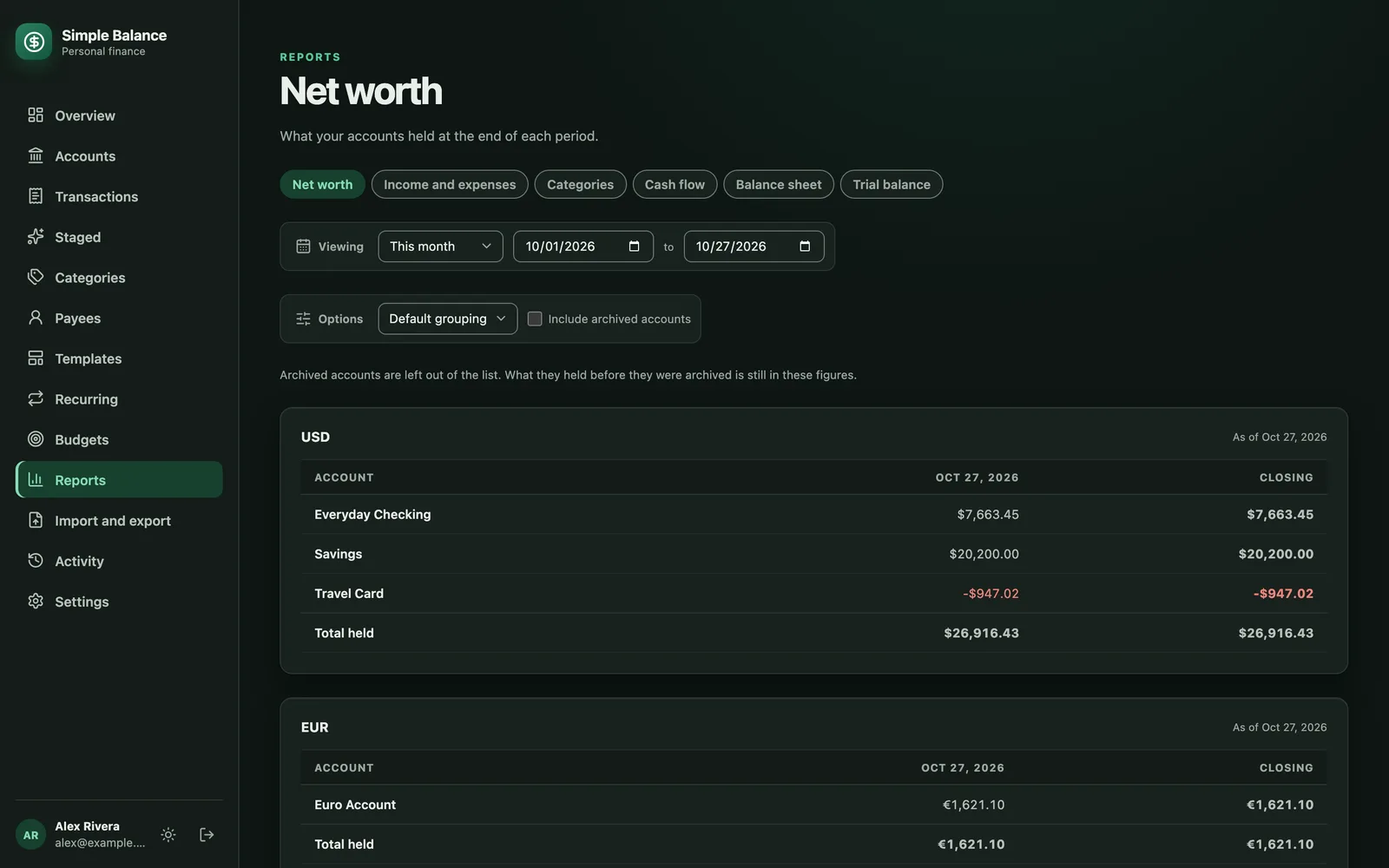
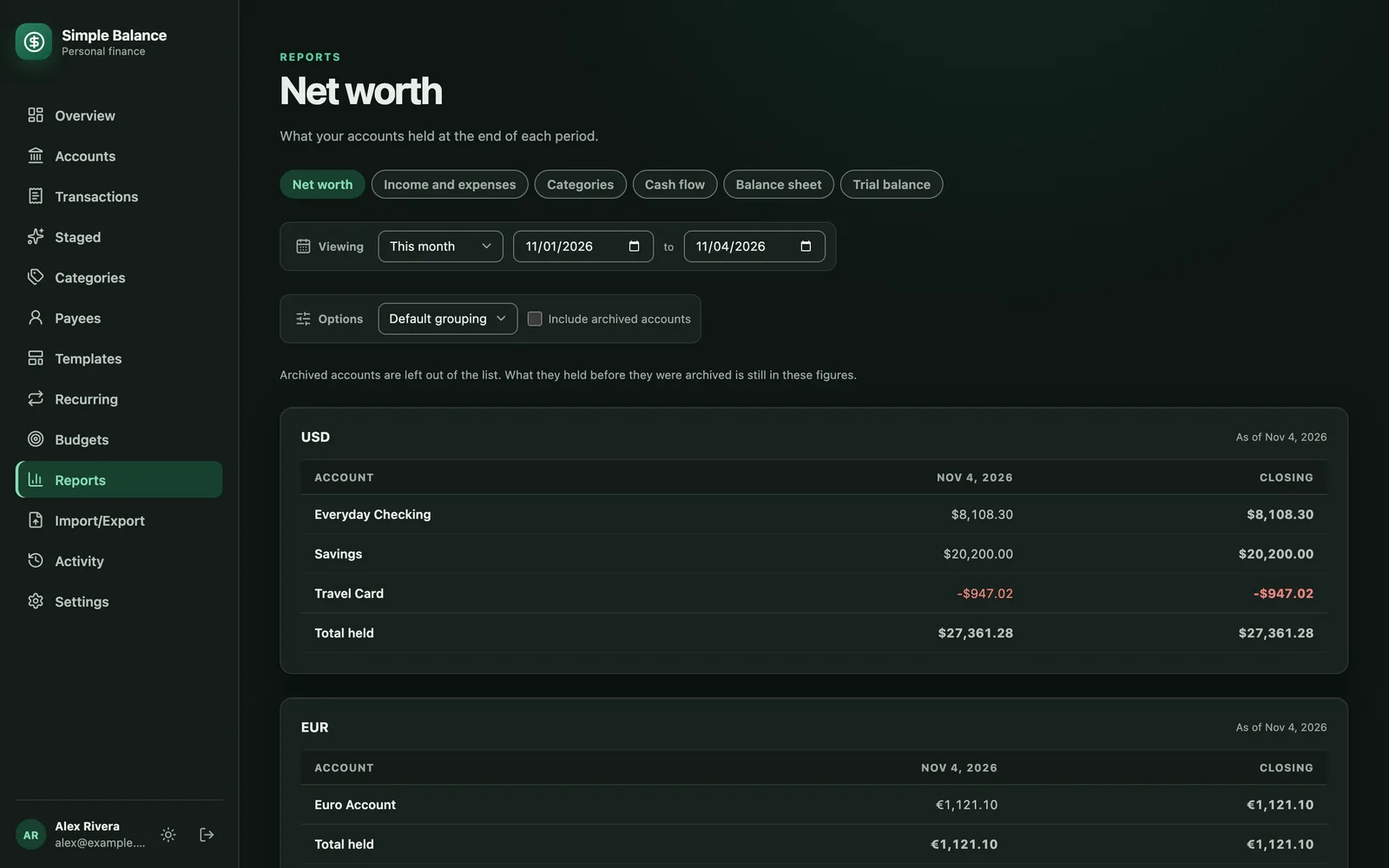
Send readers to Import/Export, and fold this branch into 0.2.2
This branch ships in 0.2.2, which is cut on main and not yet published, so
its changelog entries move out of Unreleased: the demo ledger leads 0.2.2's
Changed section, and the menu rename becomes a correction to the sentence
that introduced the page rather than an entry of its own. The 0.2.2 upgrade
note said the sidebar reads "Import and export", in its summary and in its
checks, and now says Import/Export.

The rename itself survived review because only the sidebar was renamed. Five
how-to steps, two sentences of the user guide and the upgrade note's check
told a person to open "Import and export", which the sidebar no longer has,
and web.md still said the label was words rather than "Import/Export" for
the sentence-case rule. That rule now names Import/Export as its one
exception; the page keeps its heading. Two tool descriptions and one input
description (export_transactions_csv, export_ledger_file) told an agent to
send the person to the old label too, so each tier's tools/list is 12
characters shorter, re-pinned in mcp.md and in the upgrade note's
0.2.1-against-0.2.2 table.

The product kit is rebuilt from the demo ledger with billing on: 28 shots of
14 screens, plan tab included, every one carrying the new label. That run
also exercised the path the skill describes and nothing had shown, the free
plan refusing the ledger's four accounts until a subscription row exists.
LEDGER_FILE_UPGRADE_AFTER_DASH is used only in its own module and is no
[…]

diff --git a/src/server/mcp.ts b/src/server/mcp.ts
@@ -1137,7 +1137,7 @@ export function createMcpServer(actor: Actor, scopes: Set<string>) {
       {
         title: "Export transactions as CSV",
         description:
-          "Export filtered committed transactions in the round-trip CSV format. One call exports at most 100 transactions and 60,000 characters, so the file stays small enough to read in one reply; more is refused with the limit rather than cut short, so filter with start and end and export a range at a time. The person's download from Import and export in the browser carries up to 100,000. A deleted entry is never exported, whatever filter is sent: it is void, its postings net to zero, and the file has no column to say so, so reading it back would raise the voided amount from the dead.",
+          "Export filtered committed transactions in the round-trip CSV format. One call exports at most 100 transactions and 60,000 characters, so the file stays small enough to read in one reply; more is refused with the limit rather than cut short, so filter with start and end and export a range at a time. The person's download from Import/Export in the browser carries up to 100,000. A deleted entry is never exported, whatever filter is sent: it is void, its postings net to zero, and the file has no column to say so, so reading it back would raise the voided amount from the dead.",
         // An export is the whole filtered set, so it advertises no window, and
         // no includeDeleted either: the service fixes that to false and an
         // advertised filter that changes nothing is worse than an absent one.
@@ -1167,7 +1167,7 @@ export function createMcpServer(actor: Actor, scopes: Set<string>) {
       {
         title: "Export a Simple Balance file",
         description:
-          "Export the ledger, or some of its accounts, as a Simple Balance file: one JSON document (simple-balance-ledger-1) holding accounts, categories and groups, entries with their splits, templates, recurring transactions, budgets, staged rows and settings, every reference by name, so it can move to another copy of Simple Balance, where `preview_ledger_file` reads it and `add_ledger_file` adds it, or `move_ledger_file` moves it into a ledger that holds nothing else yet. One call carries at most 10,000 rows — entries, staged rows, budget amounts and history events together — at most 4 MiB of notes, split legs, staged rows and activity history among them, and at most one import part's 16 MiB in all, so export a larger ledger, or a long activity history, a date range at a time. Staged rows and budget amounts have no date to narrow them by, so a queue or a set of budget amounts over that cannot leave through this tool; the person's download from Import and export in the browser carries up to 100,000 rows. To move a larger ledger that way, export consecutive ranges and move them oldest first into the same ledger, using the accounts the earlier ranges brought when movePlan asks; the last range's balance check says whether every earlier one is in, and only the latest range should carry recurrences, because one created by an earlier range can propose a row into Staged before the next lands and end the move. The file comes back as text; pass it on unchanged.",
+          "Export the ledger, or some of its accounts, as a Simple Balance file: one JSON document (simple-balance-ledger-1) holding accounts, categories and groups, entries with their splits, templates, recurring transactions, budgets, staged rows and settings, every reference by name, so it can move to another copy of Simple Balance, where `preview_ledger_file` reads it and `add_ledger_file` adds it, or `move_ledger_file` moves it into a ledger that holds nothing else yet. One call carries at most 10,000 rows — entries, staged rows, budget amounts and history events together — at most 4 MiB of notes, split legs, staged rows and activity history among them, and at most one import part's 16 MiB in all, so export a larger ledger, or a long activity history, a date range at a time. Staged rows and budget amounts have no date to narrow them by, so a queue or a set of budget amounts over that cannot leave through this tool; the person's download from Import/Export in the browser carries up to 100,000 rows. To move a larger ledger that way, export consecutive ranges and move them oldest first into the same ledger, using the accounts the earlier ranges brought when movePlan asks; the last range's balance check says whether every earlier one is in, and only the latest range should carry recurrences, because one created by an earlier range can propose a row into Staged before the next lands and end the move. The file comes back as text; pass it on unchanged.",
         // The page's own selection, as is: the route parses the same schema out
         // of its query string, so an agent can ask for exactly what the page
         // can and nothing it cannot.

diff --git a/src/shared/ledger-file.ts b/src/shared/ledger-file.ts
@@ -1576,7 +1576,7 @@ export const ledgerFileSelectionSchema = z
       .array(z.enum(ledgerFileKinds))
       .min(1, "Choose at least one kind of record to export")
       .describe(
-        "Which kinds of record the file carries whole: preferences (the regional defaults and appearance from Settings: timezone, default currency and theme), categories (with their groups), accounts, entries (committed transactions), deletedEntries (deleted entries, which net to zero; needs entries), templates (with their reminders), recurrences, budgets (plans and per-period amounts), staged (rows waiting in Staged transactions) and history (the activity log, which no import reads back). A record of a kind left out still travels as a reference, by name, wherever something in the file names it. The browser's Export section, on Import and export, starts with every kind but history.",
+        "Which kinds of record the file carries whole: preferences (the regional defaults and appearance from Settings: timezone, default currency and theme), categories (with their groups), accounts, entries (committed transactions), deletedEntries (deleted entries, which net to zero; needs entries), templates (with their reminders), recurrences, budgets (plans and per-period amounts), staged (rows waiting in Staged transactions) and history (the activity log, which no import reads back). A record of a kind left out still travels as a reference, by name, wherever something in the file names it. The browser's Export section, on Import/Export, starts with every kind but history.",
       ),
     accountIds: z
       .array(uuid())

diff --git a/src/shared/ledger-file-import.ts b/src/shared/ledger-file-import.ts
@@ -476,7 +476,7 @@ export function ledgerFileMoveStagedBlocked(n: number): string {
  * off everything the ledger-file tools return. Constants, so the browser's
  * sentence and the strip cannot drift apart.
  */
-export const LEDGER_FILE_UPGRADE_AFTER_DASH = " — or upgrade under Settings.";
+const LEDGER_FILE_UPGRADE_AFTER_DASH = " — or upgrade under Settings.";
 export const LEDGER_FILE_UPGRADE_AFTER_COMMA = ", or upgrade under Settings.";
 
 /**

diff --git a/CHANGELOG.md b/CHANGELOG.md
@@ -2,29 +2,6 @@
 
 Notable changes, newest first.
 
-## Unreleased
-
-### Changed
-
-**The menu calls Import and export Import/Export.** Shorter in a sidebar where
-every other item is one or two words; the page and its address are unchanged.
-
-**One demo ledger, saved as a Simple Balance file, is what everything synthetic
-is made of.** The product kit used to build its ledger from a description of
-one, posting every account, entry, budget and template through the API on each
-run, and design reviews and smoke tests made up data of their own.
-`scripts/demo-ledger/demo-ledger.json` is now an export from this application,
-committed, and `scripts/demo-ledger/load.mjs` — or the kit's build, which does
-the same thing — moves it into a new sign-up's books, with its dates brought
-forward by whole months so its last month is the current one. It holds what the
-old seed did, plus a category group, a split, a conversion between its two
-currencies and a deleted entry. `save.mjs` writes a changed copy back with only
-the change in the diff. `tests/integration/demo-ledger.integration.test.ts`
-moves it into a database, so a change to the format or to a move's rules that
-the file no longer meets fails there instead of halfway through a screenshot
-run. The kit's `seed.json` and its per-entry keys are gone with the seeding they
-served.
-
 ## 0.2.2 - 2026-11-03
 
 ### Added
@@ -48,22 +25,23 @@ whoever started the connection.
 file.** A CSV carries transactions and nothing else, so moving between our cloud
 app and a copy you run yourself meant rebuilding every account, budget, template
 and recurring transaction by hand, and picking the other account of every
-transfer again. The menu's Import CSV is now **Import and export**, at the same
-address, and below the CSV import it makes one JSON file in the
-`simple-balance-ledger-1` format: accounts with their opening balances and the
-day each was archived, categories and groups, every transaction with its splits
-and both sides of every transfer, deleted ones too unless you untick them,
-templates with their reminders, recurring transactions, budgets, rows still
-waiting in Staged transactions, and your regional defaults and theme once you
-have chosen them. Records name each other by name rather than by id, so the file
-means the same thing in another copy, and a kind you leave out still travels by
-name wherever something refers to it, so unticking one breaks nothing. **Some
-accounts** takes up to a hundred of them, with their details alone, all their
-transactions, or a date range, and a transfer between two of them is in the file
-once. A ranged file carries what each account held the day before it starts, and
-a file with transactions gives every account a balance check worked out from its
-postings. The activity history can come along, unticked to begin with, with
-the owner's id taken out of it, and is never read back.
+transfer again. The menu's Import CSV is now **Import/Export**, a page headed
+Import and export at the same address, and below the CSV import it makes one
+JSON file in the `simple-balance-ledger-1` format: accounts with their opening
+balances and the day each was archived, categories and groups, every transaction
+with its splits and both sides of every transfer, deleted ones too unless you
+untick them, templates with their reminders, recurring transactions, budgets,
+rows still waiting in Staged transactions, and your regional defaults and theme
+once you have chosen them. Records name each other by name rather than by id, so
+the file means the same thing in another copy, and a kind you leave out still
+travels by name wherever something refers to it, so unticking one breaks
+nothing. **Some accounts** takes up to a hundred of them, with their details
+alone, all their transactions, or a date range, and a transfer between two of
+them is in the file once. A ranged file carries what each account held the day
+before it starts, and a file with transactions gives every account a balance
+check worked out from its postings. The activity history can come along,
+unticked to begin with, with the owner's id taken out of it, and is never read
+back.
 
 Agents get the same file from `export_ledger_file`, and
 `GET /api/v1/ledger-file` serves it as a download. One download holds up to
@@ -284,6 +262,22 @@ archived accounts counted. The Budget panel counts archived spending either
 way, as the Budgets page always has.
 
 ### Changed
+
+**One demo ledger, saved as a Simple Balance file, is what everything synthetic
+is made of.** The product kit used to build its ledger from a description of
+one, posting every account, entry, budget and template through the API on each
+run, and design reviews and smoke tests made up data of their own.
+`scripts/demo-ledger/demo-ledger.json` is now an export from this application,
+committed, and `scripts/demo-ledger/load.mjs` — or the kit's build, which does
+the same thing — moves it into a new sign-up's books, with its dates brought
+forward by whole months so its last month is the current one. It holds what the
+old seed did, plus a category group, a split, a conversion between its two
+currencies and a deleted entry. `save.mjs` writes a changed copy back with only
+the change in the diff. `tests/integration/demo-ledger.integration.test.ts`
+moves it into a database, so a change to the format or to a move's rules that
+the file no longer meets fails there instead of halfway through a screenshot
+run. The kit's `seed.json` and its per-entry keys are gone with the seeding they
+served.
 
 **Tool text says plainly that Simple Balance records bookkeeping entries and
 moves no money.** `create_transaction`, `archive_account` and

diff --git a/docs/upgrades.md b/docs/upgrades.md
@@ -222,26 +222,26 @@ matching it means a new endpoint at endive and its new `whsec_…` in
 reshaped is the switch from monthly to annual on the spot; try it, and a
 3-D Secure payment, in a sandbox before you rely on either.
 
-**Import CSV is now Import and export, at the same address.** The sidebar
-label and the page's heading changed; the path is still `/import`, so a bookmark
-or a link in somebody's notes still lands there. The CSV import is first on the
-page and behaves exactly as it did, and the CSV export on Transactions, its
-route, its columns and every file it ever wrote are untouched. Below the import
-is a new section, **Import a Simple Balance file**, and after it the new
-export, a Simple Balance file of the whole ledger or of chosen accounts. Adding
-a file creates the accounts, categories, templates, recurring transactions and
-budgets nothing here is like straight away, asks in its preview about every one
-that collides with a record of the same name, and stages the file's
-transactions for review like any import. Moving a file, offered only into a
-ledger where everything came from a Simple Balance file — a new sign-up, a
-fresh install — writes its transactions straight into the books instead,
-deleted ones and the days accounts were archived included, and checks every
-account's balance against the file before the last part commits. A ledger
+**Import CSV is now Import/Export, at the same address.** The sidebar label
+reads Import/Export and the page is headed Import and export; the path is still
+`/import`, so a bookmark or a link in somebody's notes still lands there. The
+CSV import is first on the page and behaves exactly as it did, and the CSV
+export on Transactions, its route, its columns and every file it ever wrote are
+untouched. Below the import is a new section, **Import a Simple Balance file**,
+and after it the new export, a Simple Balance file of the whole ledger or of
+chosen accounts. Adding a file creates the accounts, categories, templates,
+recurring transactions and budgets nothing here is like straight away, asks in
+its preview about every one that collides with a record of the same name, and
+stages the file's transactions for review like any import. Moving a file,
+offered only into a ledger where everything came from a Simple Balance file — a
+new sign-up, a fresh install — writes its transactions straight into the books
+instead, deleted ones and the days accounts were archived included, and checks
+every account's balance against the file before the last part commits. A ledger
 that already holds transactions typed into it, which is every ledger in use
-before this upgrade, is offered adding alone. **Both copies need this
-release**: a 0.2.1 copy has nothing that reads a file, so a ledger moving from
-one — to our cloud app, say — has to upgrade first to make the file, and one
-moving to one has to upgrade first to take it in.
+before this upgrade, is offered adding alone. **Both copies need this release**:
+a 0.2.1 copy has nothing that reads a file, so a ledger moving from one — to our
+cloud app, say — has to upgrade first to make the file, and one moving to one
+has to upgrade first to take it in.
 
 **Four new routes and four new tools.** `GET /api/v1/ledger-file`
 (`ledger:read`) answers with the file as `application/json`, an attachment named
@@ -277,9 +277,9 @@ tool list against 0.2.1's, measured on 2026-11-03:
 
 | Token holds | 0.2.1 | 0.2.2 | Longer by |
 | --- | --- | --- | --- |
-| `ledger:read` | 173,131 | 220,496 | 47,365, 27% |
-| `ledger:stage` | 213,653 | 261,511 | 47,858, 22% |
-| `ledger:write` | 497,153 | 595,032 | 97,879, 20% |
+| `ledger:read` | 173,131 | 220,484 | 47,353, 27% |
+| `ledger:stage` | 213,653 | 261,499 | 47,846, 22% |
+| `ledger:write` | 497,153 | 595,020 | 97,867, 20% |
 
 At about four characters to a token that is some 55,000 tokens for a
 read-only connection and 149,000 for a writing one. A client that loads every
@@ -690,7 +690,7 @@ published value, not a secret, so it has no `_FILE` form.
 Where the challenge is set,
 `curl -sS https://your-host/.well-known/openai-apps-challenge` prints the token
 and nothing else; unset, it answers 404. Signed in,
-**Import and export** shows the CSV import, then **Import a Simple Balance
+**Import/Export** shows the CSV import, then **Import a Simple Balance
 file**, then **Export a Simple Balance file**; **Export file** saves
 `simple-balance-` and today's date as a `.json` file, and choosing that file
 under **Import a Simple Balance file** in the same ledger says everything in it

diff --git a/docs/acceptance.md b/docs/acceptance.md
@@ -42,6 +42,7 @@ things are outstanding and four of them are gates.
 | Metrics, before a backend | The collector's configuration is one the pinned collector accepts in every shape and for both protocols, and it runs nowhere that did not ask for it | CI renders the chart's collector and runs the pinned collector's own `validate` on the result for both protocols, and `tests/collector-config.test.ts` holds the export pipeline to the same text in all three configurations, so the Compose shapes share what was validated; every service it adds carries the `metrics` profile and the chart's is off by default. `tests/helm-collector.test.ts`, `tests/cluster-pulumi-collector.test.ts`, `tests/cloud-init.test.ts`, `tests/single-ingress.test.ts` and `tests/systemd-scripts.test.ts` hold the chart, the programs, the machines, the firewall and the start. End to end it was run once on October 24, 2026 against real compose files with an OTLP and a remote-write receiver standing in for the backend, and once on a kind cluster: every target `up`, the token refused when wrong, and nothing rendered differently with nothing set. Those runs are not in the repository, so they support the row rather than close it |
 | MCP directory listings | The host answers OpenAI's domain check, discovery says every client is public, the first 401 names the scopes, the consent screen names where a code goes and whose ledger it grants, a refresh retires its token, a client once approved is never swept, every tool carries its title in its annotations, no tool text or agent refusal reads as moving money or promoting an upgrade, and no tool reply outgrows the context it lands in | `tests/openai-apps-challenge.test.ts`, `tests/mcp-discovery-scopes.test.ts`, `tests/consent-redirect-destination.test.ts`, `tests/oauth-consent-ui.test.tsx`, `tests/browser/consent-screen.spec.ts`, the lifecycle test in `tests/integration/auth.integration.test.ts` (refresh, replay, a race of two refreshes, revoke and sweep), `tests/integration/connected-apps.integration.test.ts`, `tests/mcp-destructive-annotations.test.ts`, `tests/mcp-money-wording.test.ts`, `tests/integration/ledger-file-add-plan.integration.test.ts` and `tests/integration/mcp-result-bounds.integration.test.ts`, each new check seen failing with what it guards removed. The specification is the Application section of `submissions/prerequisites.md` in the connectors repository |
 | Tenant isolation | Another person's record is a 404 on every route that names one | `tests/integration/tenant-isolation-routes.integration.test.ts` reads every `/api/v1` route with an id in its path out of the router — 33 — and asks each for one person's record as another, and a route added without a probe fails without a database; `tests/integration/tenant-isolation.integration.test.ts` holds the bulk paths, whose ids are in the body |
+| Demo data | Every synthetic ledger — the product kit's screenshots, a design review, a smoke test — is one committed export that loads into a new ledger on any day, every balance checked | `scripts/demo-ledger/demo-ledger.json`, moved in by `load.mjs` or the kit's build. `tests/integration/demo-ledger.integration.test.ts` moves it into a database today and compares every account with the file, and `tests/demo-ledger.test.ts` holds the file to the bytes this release writes and the date shift to its rules; both were seen failing, one on a changed amount and one on a changed layout. The kit was rebuilt from it on 2026-11-04 with billing on, which also showed the free plan's refusal of its four accounts that the `product-kit` skill describes |
 
 ## Outstanding
 

diff --git a/docs/how-to.md b/docs/how-to.md
@@ -159,7 +159,7 @@ category side to divide.
 ## Import a bank file
 
 1. Download a CSV statement from your bank.
-2. Open **Import and export** and, under **Import a CSV**, choose the file and
+2. Open **Import/Export** and, under **Import a CSV**, choose the file and
    match the columns: which one is the date, the amount (or debit/credit
    pair), the payee. Press **Dry run** to see how each row will be read before
    anything is saved.
@@ -204,7 +204,7 @@ A Simple Balance file is one file holding everything you have written in this
 ledger, for keeping or for moving to another copy of Simple Balance: our cloud
 app, or a copy you run yourself.
 
-1. Open **Import and export**. The export is the last section, **Export a
+1. Open **Import/Export**. The export is the last section, **Export a
    Simple Balance file**.
 2. Under **What to export**, choose **Everything** for the whole ledger, or
    **Some accounts** for the ones you pick.
@@ -242,7 +242,7 @@ This adds the file to the ledger you are signed in to, whether it is empty or
 already has accounts and transactions of its own. Nothing is written until you
 press the button at the end.
 
-1. Open **Import and export**. The middle section is **Import a Simple Balance
+1. Open **Import/Export**. The middle section is **Import a Simple Balance
    file**.
 2. Choose the file. The page reads it first, and a file it cannot read is
    refused with each problem beside the place in the file it points at. Then it
@@ -308,11 +308,11 @@ checked against the file before the move is finished.
    this release or a later one, and so does a copy you are moving away from.
    Do not enter a transaction or import a CSV there first: a move is offered
    only while everything in the ledger came from a Simple Balance file.
-2. **Export the ledger you are leaving.** Open **Import and export** there,
+2. **Export the ledger you are leaving.** Open **Import/Export** there,
    choose **Everything** under **What to export**, and press **Export file**
    (see [Take your ledger with you](#take-your-ledger-with-you)). Leave
    **Include deleted transactions** ticked if you want them to come too.
-3. **On the new side**, open **Import and export** and choose the file under
+3. **On the new side**, open **Import/Export** and choose the file under
    **Import a Simple Balance file**.
 4. Under **How should this file come in?**, choose **Move it into this
    ledger**. Nothing is chosen for you, and the button stays disabled until

diff --git a/docs/standards/web.md b/docs/standards/web.md
@@ -4196,7 +4196,8 @@ screen adds:
 
 **House.** Sentence case everywhere: page titles, headings, buttons, options,
 badges, empty states, alerts, table headers, navigation. An eyebrow is authored
-in sentence case and uppercased by CSS, never by the string.
+in sentence case and uppercased by CSS, never by the string. One named
+exception: the sidebar's Import/Export, below.
 
 **House.** A button leads with a verb, in the verb-plus-noun form, with articles
 dropped: "Add menu item", not "Add a menu item". Bare verbs are allowed for four
@@ -4254,16 +4255,22 @@ Banned outright: "please", "sorry", "valid", "invalid", "oops", "forbidden",
 sentence, word for word.
 
 **House. A page's name can change and its path does not.** The sidebar's
-Import CSV became Import and export when the page gained an export, and its path
+Import CSV became Import/Export when the page gained an export, and its path
 stayed `/import`. A path is what a bookmark, a link in somebody's notes and the
 product kit's screenshot list hold, and the router sends a path it does not know
 to the overview without a word (`src/client/App.tsx:1119`), so a renamed path
 turns every old link into the wrong page silently. A redirect would answer that
-and is one more route to carry for a word nobody reads in the address bar. The
-label itself is words, "Import and export" rather than "Import/Export", for the
-sentence-case rule above. *Checked by:* `tests/nav-order.test.ts` for the
-label and that it names a route the app serves; that a rename kept its path is
-review, since a renamed path would pass that check too.
+and is one more route to carry for a word nobody reads in the address bar.
+
+The label is "Import/Export", the one navigation label that capitalizes a second
+word, and the page it opens is headed "Import and export". It was "Import and
+export" in the sidebar too, for the sentence-case rule above, and was changed by
+decision before 0.2.2 shipped; every other item in the sidebar is one word. The
+heading keeps the sentence-case form. A link elsewhere still names the page by
+its sidebar label (below), so it says Import/Export. *Checked by:*
+`tests/nav-order.test.ts` for the label and that it names a route the app
+serves; that a rename kept its path is review, since a renamed path would pass
+that check too.
 
 **House.** The `PageHeader` eyebrow names a section, never repeats the title,
 and is dropped where there is nothing to say. It repeated the title on Accounts

diff --git a/docs/standards/mcp.md b/docs/standards/mcp.md
@@ -267,7 +267,7 @@ parts, in order:
 Further rules:
 
 - **House.** A floor of three to four sentences. Measured today: 83
-  descriptions, 39,814 characters, median 393, range 33 to 1,984, and **7 under
+  descriptions, 39,806 characters, median 393, range 33 to 1,984, and **7 under
   100 characters**. The distribution is bimodal, but the terse half does not
   cover the dangerous tools: `commit_staged_transactions` is 431 characters and
   tells the agent to confirm with the person first and what `DUPLICATE` means,
@@ -635,12 +635,12 @@ them more often.
 | Token holds | Tools | `tools/list` characters | Approx tokens |
 | --- | --- | --- | --- |
 | no ledger scope | 0 | `tools/list` is not offered at all | 0 |
-| `ledger:read` | 41 | 220,496 | ~55,000 |
-| `ledger:stage` | 46 | 261,511 | ~65,000 |
-| `ledger:write` | 83 | 595,032 | ~149,000 |
+| `ledger:read` | 41 | 220,484 | ~55,000 |
+| `ledger:stage` | 46 | 261,499 | ~65,000 |
+| `ledger:write` | 83 | 595,020 | ~149,000 |
 
-Composition at the write tier: names 1,571, titles 2,080, descriptions 39,814,
-input schemas 238,370, output schemas 292,343. **Descriptions are 6.7% of what
+Composition at the write tier: names 1,571, titles 2,080, descriptions 39,806,
+input schemas 238,366, output schemas 292,343. **Descriptions are 6.7% of what
 an agent loads; names, titles and descriptions together are 7.3%.** Output
 schemas are 49.1%. Each title is counted once here and is sent twice since
 0.2.2, as `Tool.title` and as `annotations.title`, which is about 2,300

diff --git a/docs/guide.md b/docs/guide.md
@@ -107,7 +107,7 @@ so those rows arrive in the queue asking for it.
 
 A CSV carries transactions and nothing else — no accounts, budgets, templates or
 recurring transactions — so it was never a way to move a ledger, only its
-entries. **Import and export** also makes a **Simple Balance file**: one file
+entries. **Import/Export** also makes a **Simple Balance file**: one file
 holding everything you wrote, accounts and their opening balances, categories
 and groups, every transaction with its splits and both sides of every
 transfer, templates with their reminders, recurring transactions, budgets, rows
@@ -555,5 +555,5 @@ an agent can and cannot do is in [MCP](mcp.md).
 
 Leaving is yours to do. Settings deletes the account and everything in it, after
 counting what that is and asking you to type your address. Nothing is kept, and
-no agent can do it for you. A Simple Balance file from **Import and export**
+no agent can do it for you. A Simple Balance file from **Import/Export**
 taken first is the copy of it you keep.

diff --git a/docs/standards/ledger-file.md b/docs/standards/ledger-file.md
@@ -27,7 +27,7 @@ holds nothing else. `GET /api/v1/ledger-file`,
 `POST /api/v1/ledger-file:move` (`src/server/api.ts:2380-2431`), and the
 `export_ledger_file`, `preview_ledger_file`, `add_ledger_file` and
 `move_ledger_file` tools, are the ways in, and the Import a Simple Balance file
-and Export sections of **Import and export** are the page that uses them. A
+and Export sections of **Import/Export** are the page that uses them. A
 file is read back two ways: added to a ledger that may already hold records
 like its own, its transactions going to Staged (sections 12 to 16), or moved
 straight into the books of a ledger that holds nothing else (section 17).

diff --git a/docs/mcp.md b/docs/mcp.md
@@ -854,7 +854,7 @@ between our cloud app and a copy you run
 yourself](#moving-a-ledger-between-our-cloud-app-and-a-copy-you-run-yourself)
 puts the four together.
 
-It takes the same selection the export section of **Import and export** builds.
+It takes the same selection the export section of **Import/Export** builds.
 `kinds` says which kinds of record travel whole, and a record of a kind left out
 still travels as a reference — a name, and what is needed to find it — wherever
 something in the file names it. `accountIds` narrows the file to those accounts,
